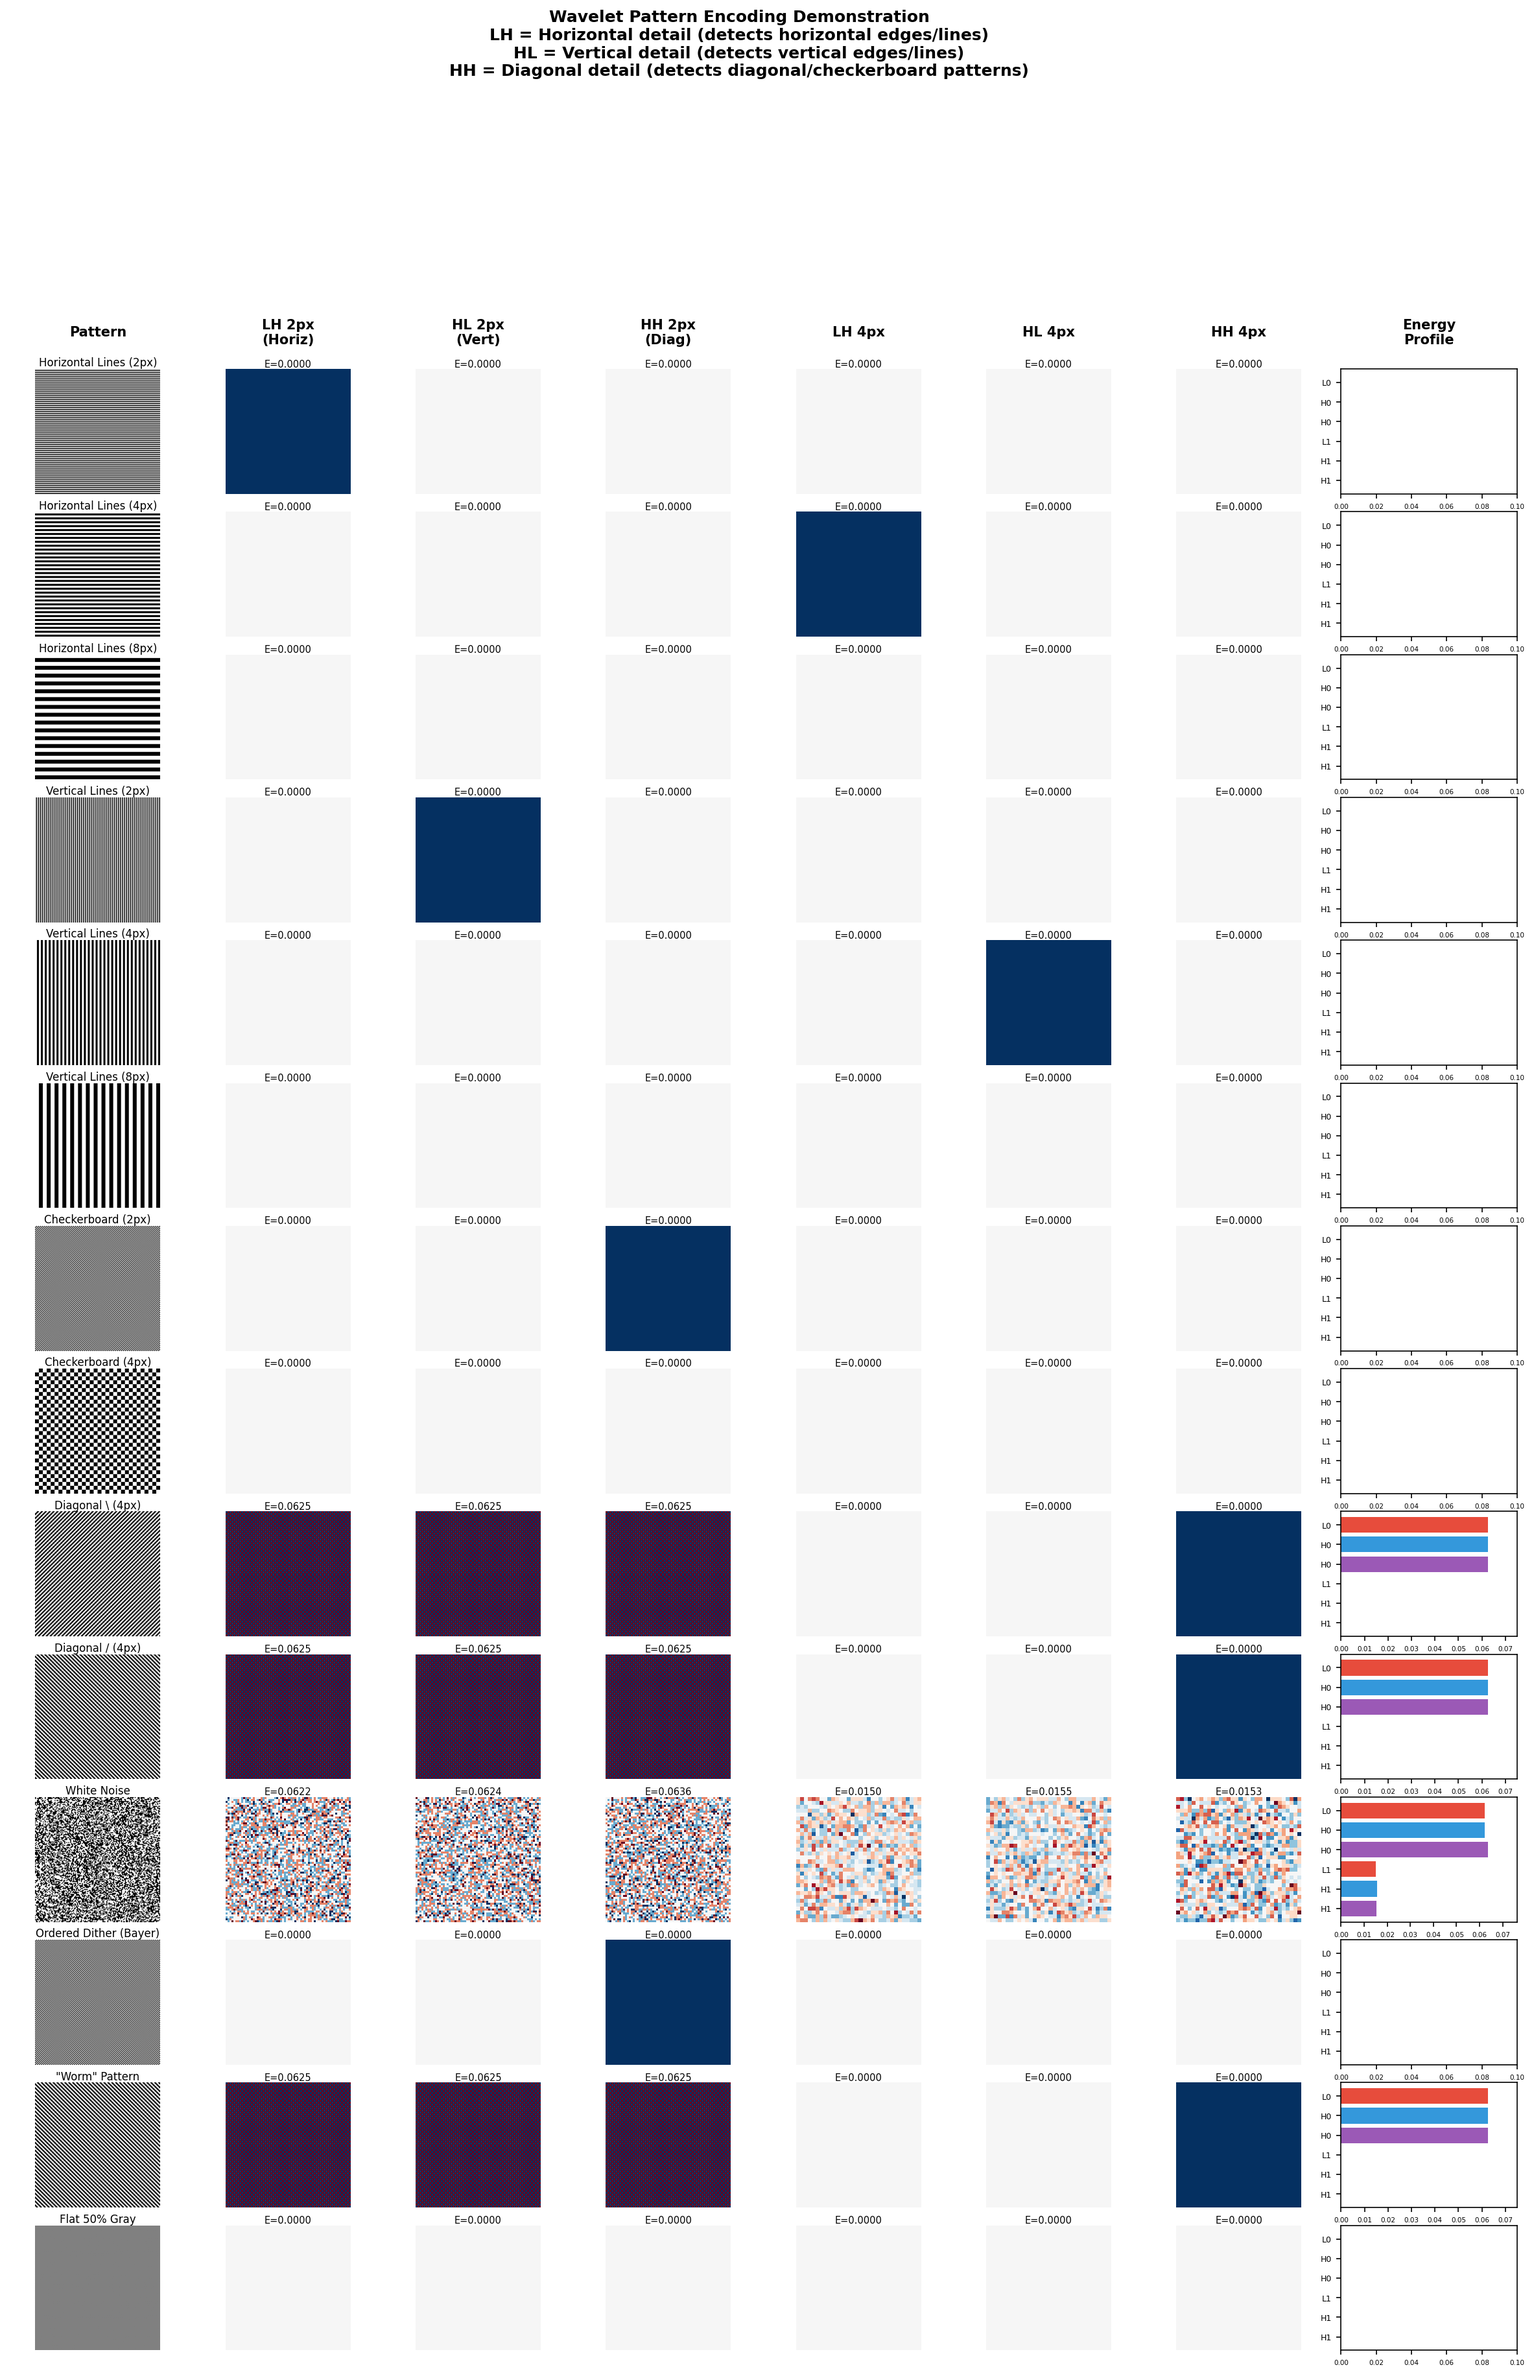
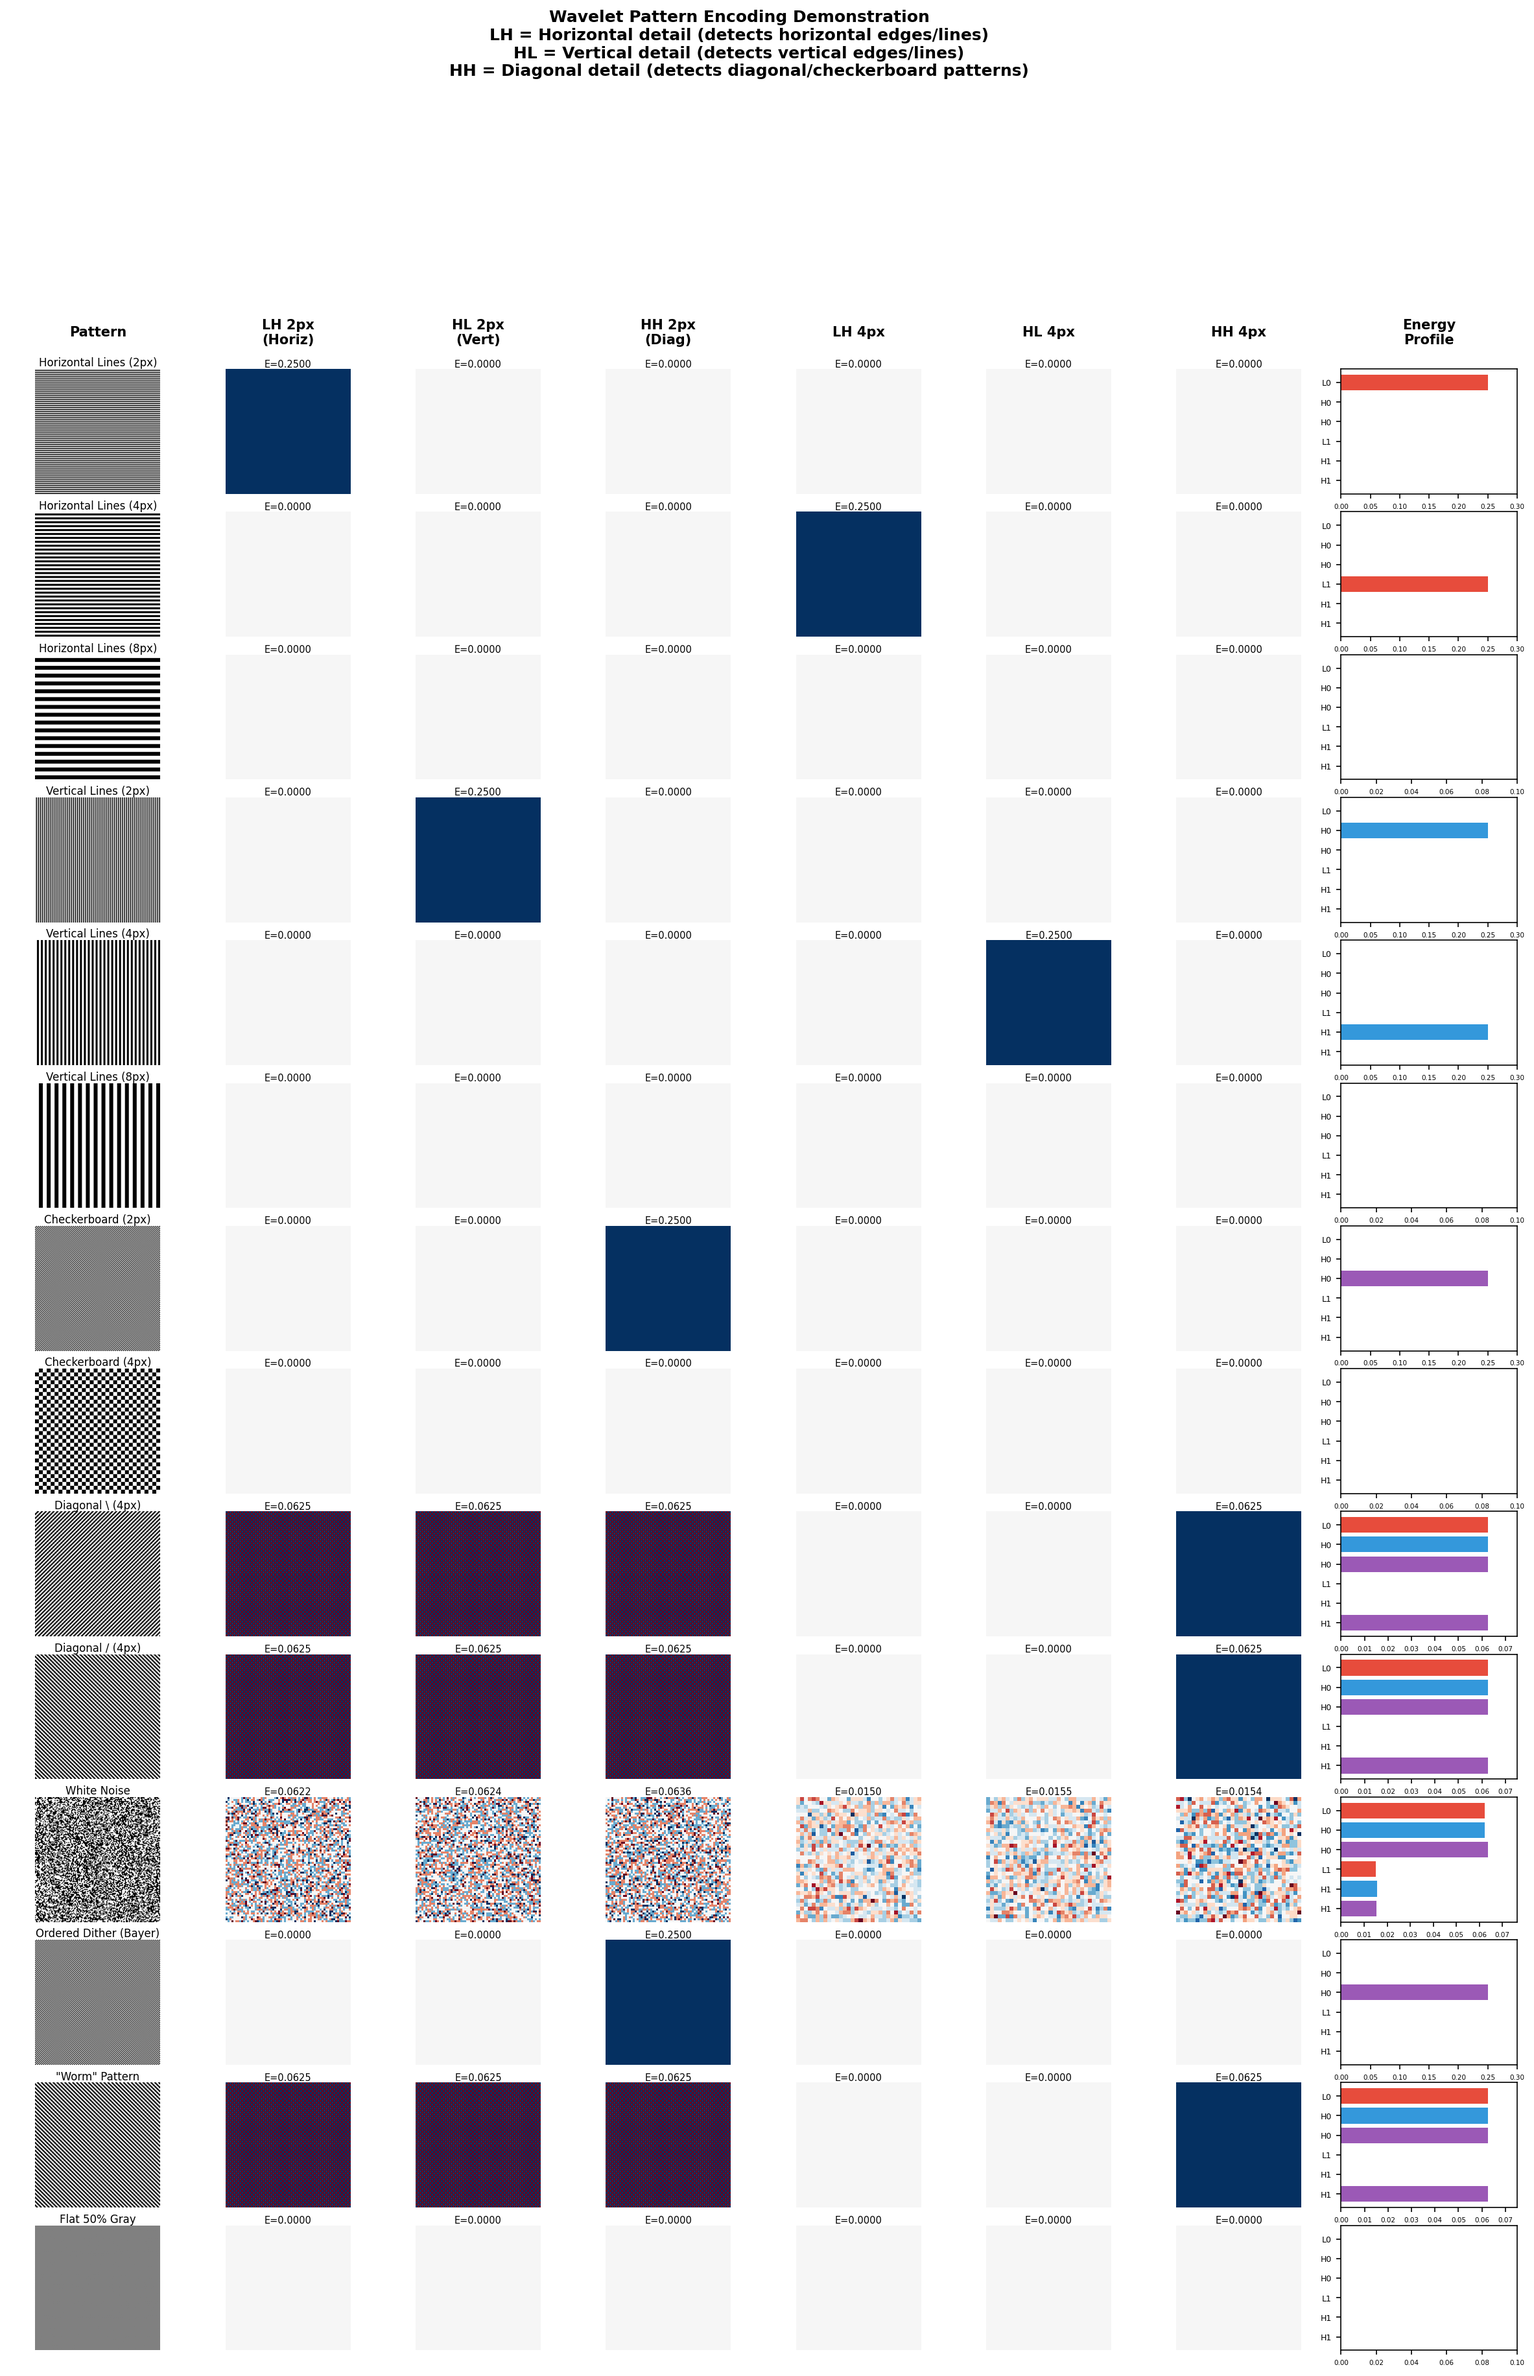
Change pattern

diff --git a/tools/wavelet_pattern_demo.py b/tools/wavelet_pattern_demo.py
@@ -182,8 +182,8 @@ def generate_patterns(size: int = 128) -> dict:
 
 
 def compute_subband_energy(subband: np.ndarray) -> float:
-    """Compute normalized energy (variance) of a subband."""
-    return np.var(subband)
+    """Compute mean squared value (signal power) of a subband."""
+    return np.mean(subband ** 2)
 
 
 def create_demo_sheet(output_path: Path, size: int = 128):
